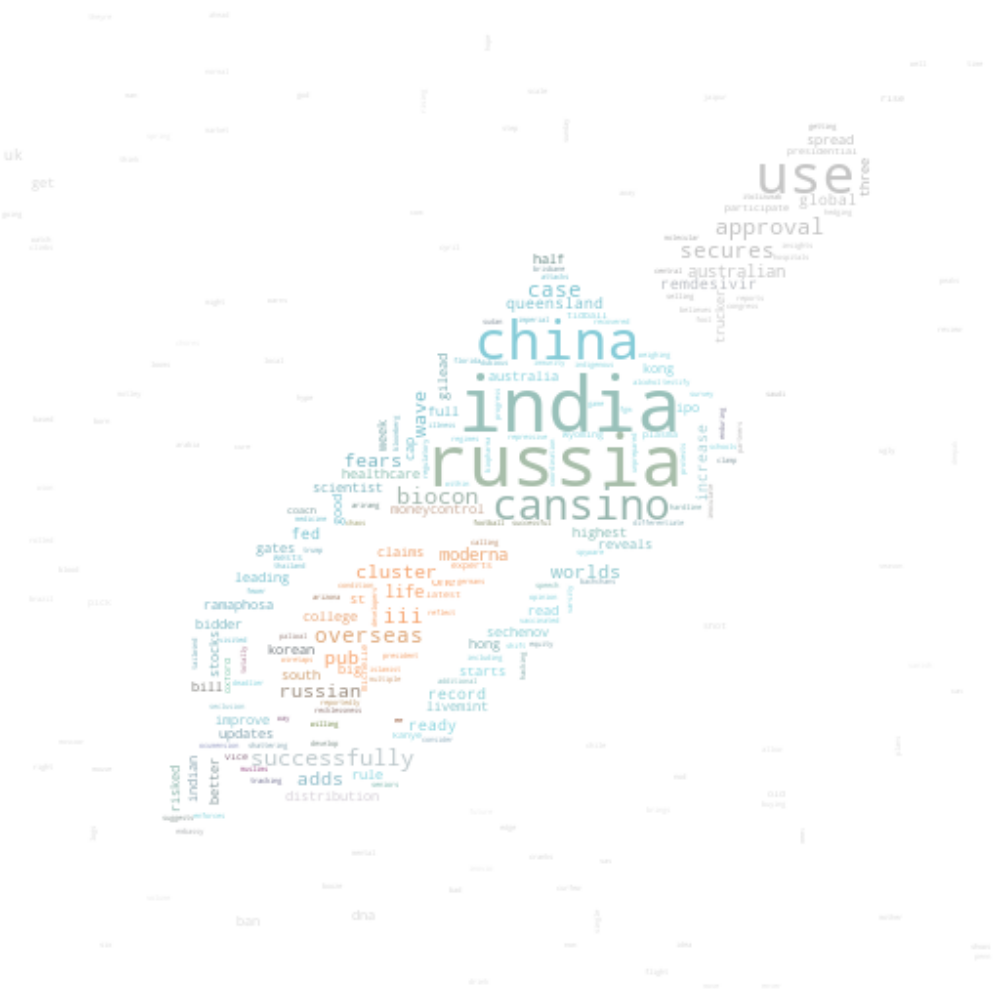
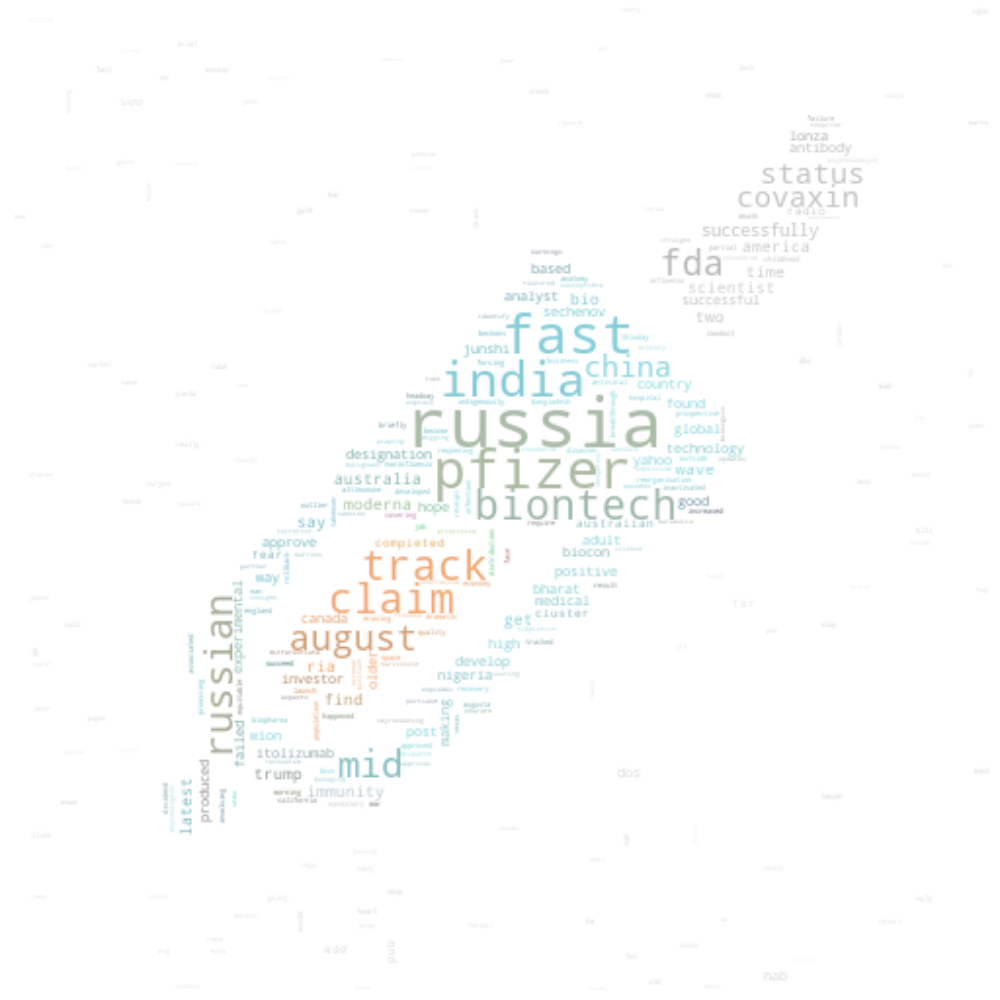
newupdate

Changed region(s): [[0.155, 0.248, 0.744, 0.837], [0.651, 0.124, 0.868, 0.31]]

diff --git a/templates/index.html b/templates/index.html
@@ -328,7 +328,8 @@
                       <div class="row">
                         <div class="col-sm-12">
                           <h2 class="font-weight-600 mb-4">
-                            Phase 3 Trials
+                            <span class="badge badge-dark mr-3">Phase 3 Trials
+                            </span>
                           </h2>
                         </div>
                       </div>
@@ -364,8 +365,8 @@
                           <div class="row">
                             <div class="col-sm-12">
                               <h2 class="font-weight-600 mb-4">
-                                Phase 2 Trials
-                              </h2>
+                                <span class="badge badge-dark mr-3">Phase 2 Trials
+                                </span>                              </h2>
                             </div>
                           </div>
 
@@ -400,8 +401,8 @@
                           <div class="row">
                             <div class="col-sm-12">
                               <h2 class="font-weight-600 mb-4">
-                                Phase 1 Trials
-                              </h2>
+                                <span class="badge badge-dark mr-3">Phase 1 Trials
+                                </span>                              </h2>
                             </div>
                           </div>
 
@@ -434,7 +435,9 @@
                           <div class="row">
                             <div class="col-sm-12">
                               <h2 class="font-weight-600 mb-4">
-                                Pre-Clinical Testing
+                                <span class="badge badge-dark mr-3">Pre-Clinical Testing
+
+                                </span>
                               </h2>
                             </div>
                           </div>
@@ -465,7 +468,7 @@
                         </div>
                        
                       </div>
-                      <p style="text-align:right;"> * Vaccine Tracker data pulled in from The New York Times' Coronavirus Vaccine Tracker
+                      <p style="text-align:right; font-size: x-small;"> * Vaccine Tracker data pulled in from The New York Times' Coronavirus Vaccine Tracker
                       </p>
                     </div>
                   </div>

diff --git a/app.py b/app.py
@@ -138,7 +138,28 @@ newsdf['clean_titles']=newsdf.title.apply(preprocessor)
 stop_words = nltk.corpus.stopwords.words('english')
 
 
-newStopWords = ["university","times","reuters","inc","international","organization","health","house","world","buy","pharma",'covid','sciences','hindustan','guide','institute','state','bbc','program','pharmaceuticals','innovations','cnn','grants','epidemic','respiratory','paycheck','protection','vaccine',"covid","coronavirus","today","trial","vaccines","could","trials","next","human","cancer","race","people","month","early","want","risk","science","pandemic","testing","second","says","start","phase","made","make","clinical","virus","update","update","final","treatment","research","nearly","begin","help","look","provides","kids","supply","stock","expert","doses","announces","plan","drug","new","hundreds","ceo","end","expected","millions","year","available","data","results","protect","may","months","scientists","researchers","billion","day", "report","study","need","development","complete","completes","heres","million","test","drugs","drug","potential","speed","boost","top","know","large","question","candidate","patient","talks",'patients']
+w_tokenizer = nltk.tokenize.WhitespaceTokenizer()
+lemmatizer = nltk.stem.WordNetLemmatizer()
+
+def lemmatize_text(text):
+    return [lemmatizer.lemmatize(w) for w in w_tokenizer.tokenize(text)]
+
+newsdf['clean_titles'] = newsdf['clean_titles'].apply(lemmatize_text)
+
+def listToString(s):  
+    
+    # initialize an empty string 
+    str1 = " " 
+    
+    # return string   
+    return (str1.join(s)) 
+        
+
+newsdf['clean_titles'] = newsdf['clean_titles'].apply(listToString)
+
+
+
+newStopWords = ["university","times","reuters","inc","international","organization","health","house","world","buy","pharma",'covid','sciences','hindustan','guide','institute','state','bbc','program','pharmaceuticals','innovations','cnn','grants','epidemic','respiratory','paycheck','protection','vaccine',"covid","coronavirus","today","trial","vaccines","could","trials","next","human","cancer","race","people","month","early","want","risk","science","pandemic","testing","second","says","start","phase","made","make","clinical","virus","update","update","final","treatment","research","nearly","begin","help","look","provides","kids","supply","stock","expert","doses","announces","plan","drug","new","hundreds","ceo","end","expected","millions","year","available","data","results","protect","may","months","scientists","researchers","billion","day", "report","study","need","development","complete","completes","heres","million","test","drugs","drug","potential","speed","boost","top","know","large","question","candidate","patient","talks",'patients',"use","i","ii","iii"]
 _mask = np.array(Image.open("static/images/wordcloud.jpg").convert('RGB'))
 _mask[_mask==0]=255
 stop_words.extend(newStopWords)
